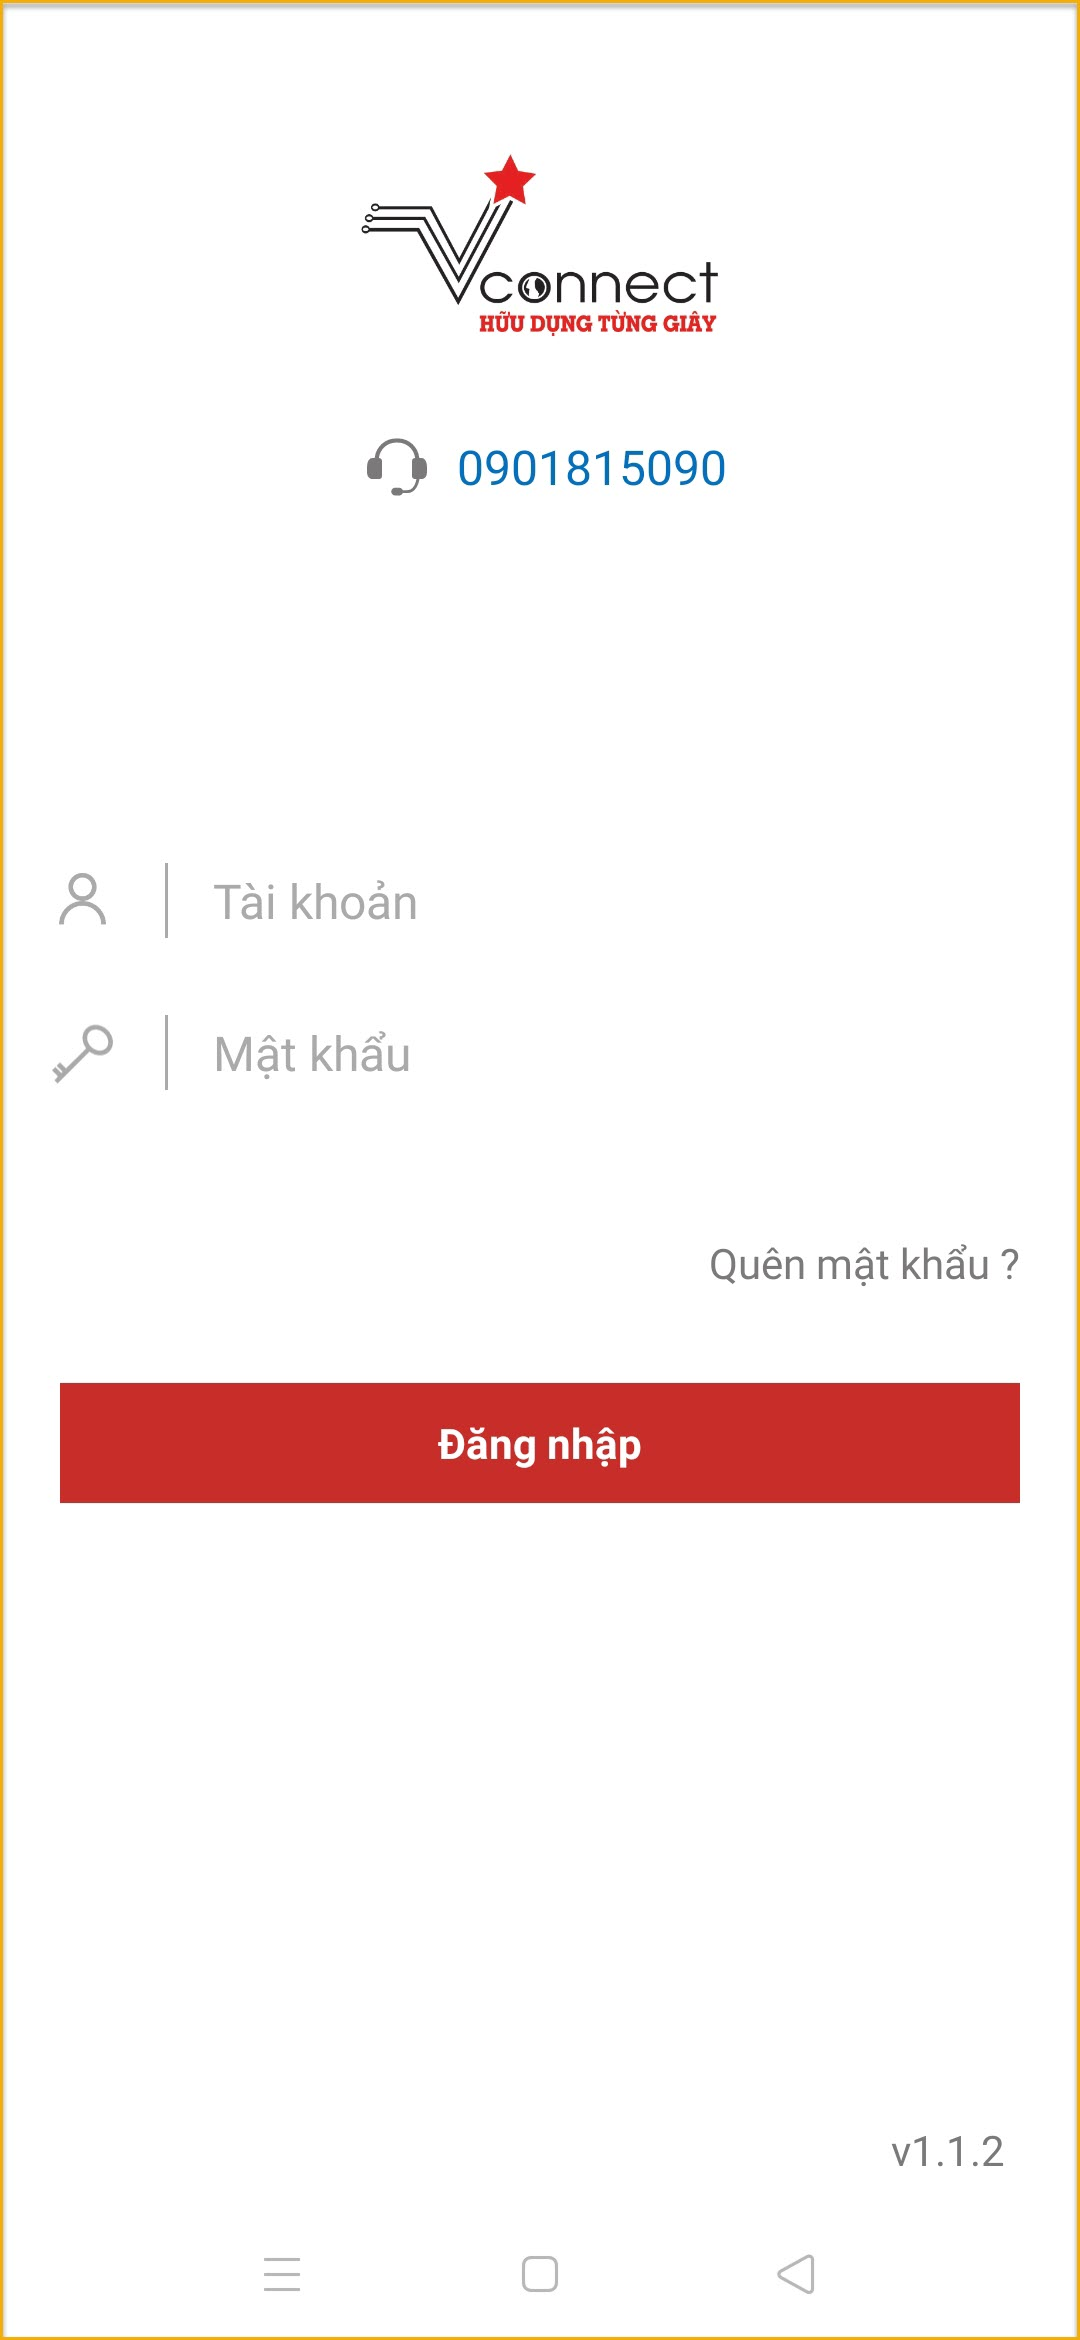
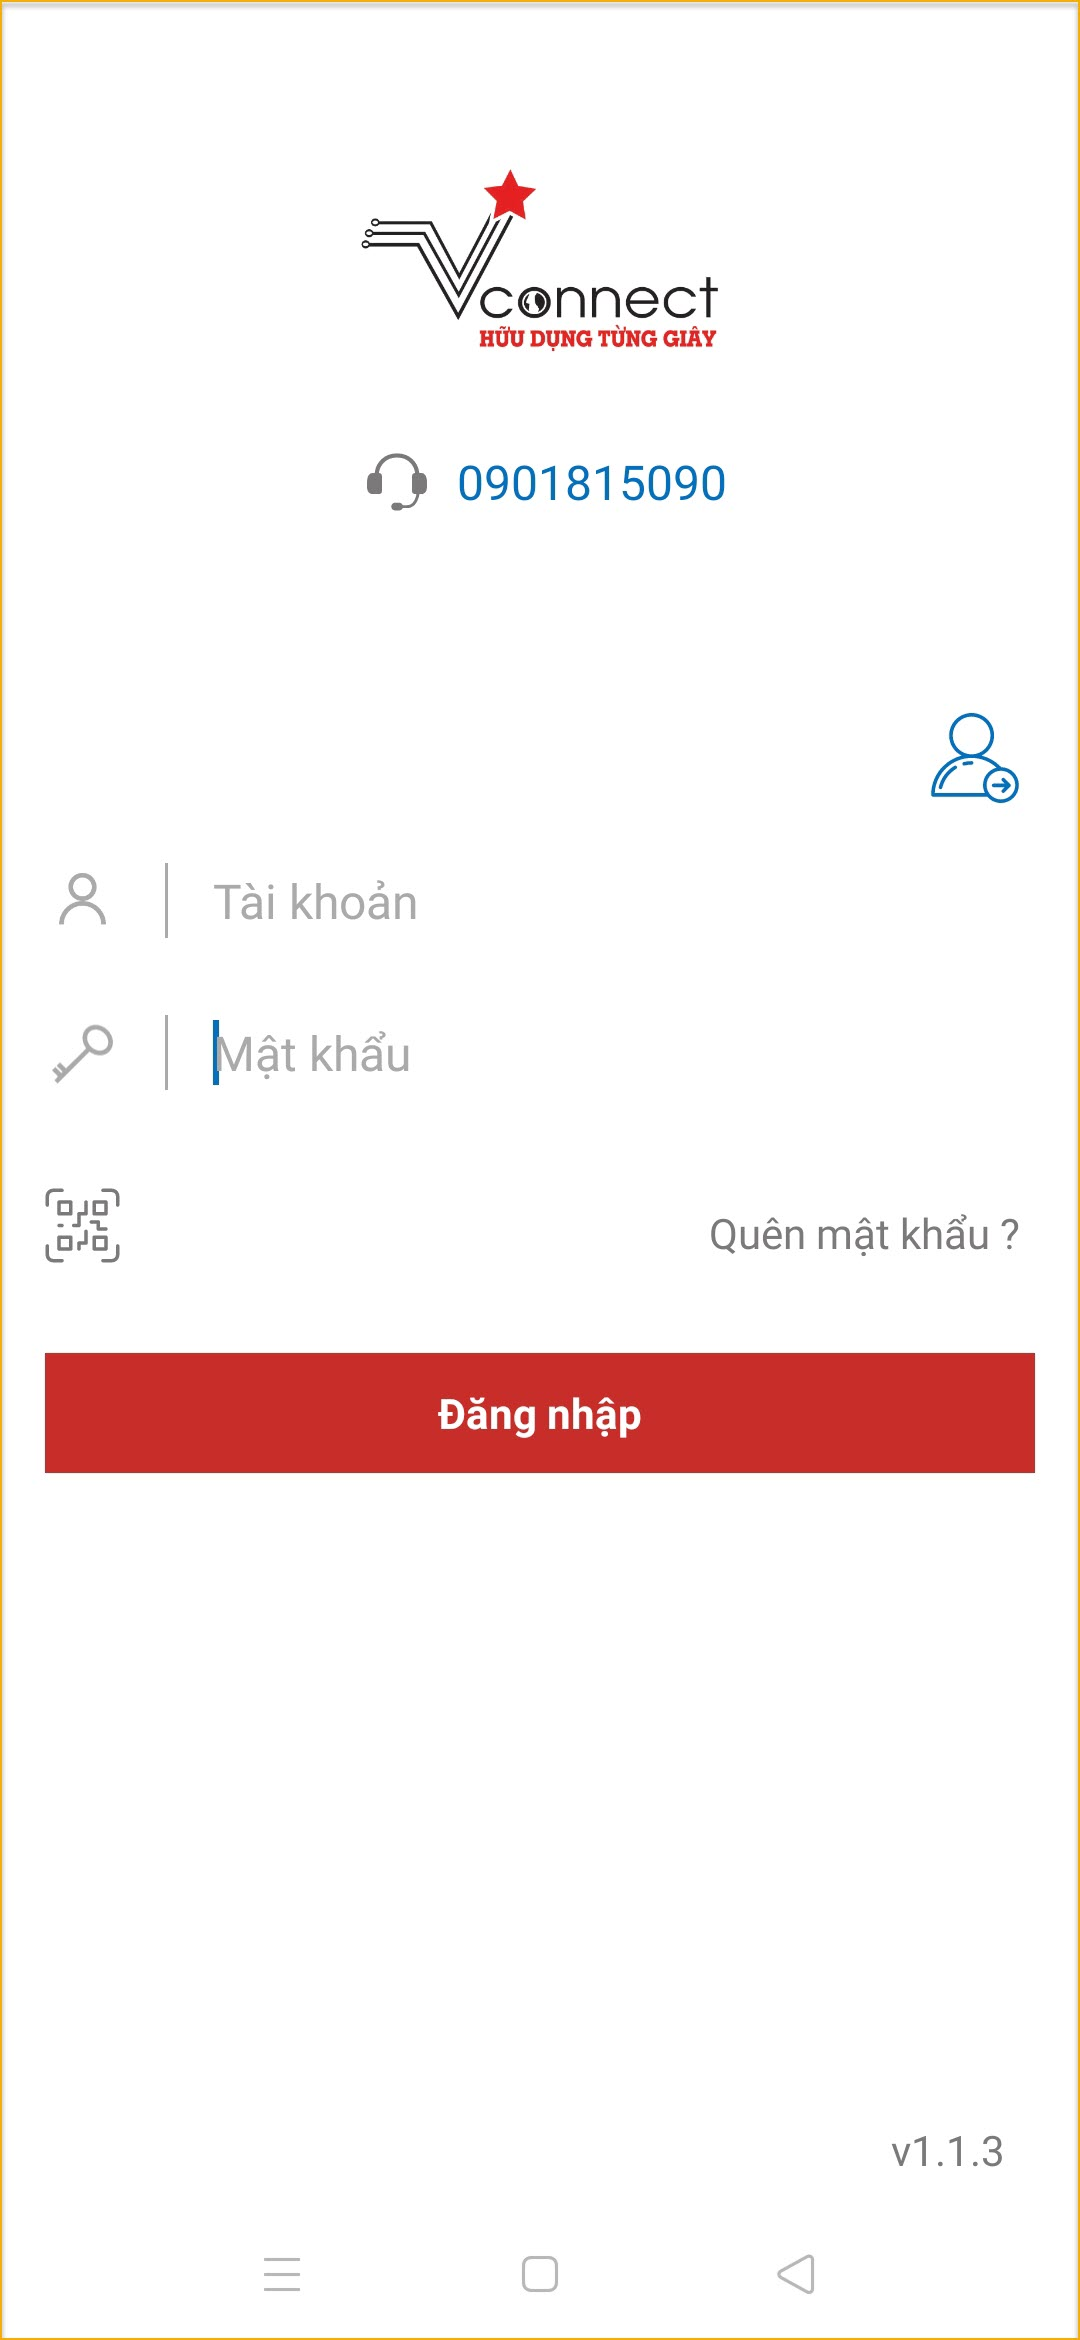
add notifiacations

diff --git a/docs/assets/css/more.css b/docs/assets/css/more.css
@@ -25,6 +25,15 @@
 
 }
 
+.icon-left3 img {
+    margin-left:6px;
+    margin-right: 4px;
+    margin-bottom: -2px;
+    width: 30px;
+    height: 30px;
+
+}
+
 
 
 

diff --git a/modules/web-interface/notification/warning/README_vi.md b/modules/web-interface/notification/warning/README_vi.md
@@ -1,0 +1,75 @@
+
+#  Quy tắc cảnh báo
+
+Khi vi phạm quy tắc cảnh báo sẽ nổ ra cảnh báo cho người dùng.
+
+Đầu tiên, bạn nhấn vào **Quản lý > Cảnh báo - Lập lịch > Quy tắc cảnh báo**
+
+<span style="display:block;text-align:center">![Interface manage acount](/docs/assets/images/web-interface/notification/warning.jpg) 
+
+### Tìm kiếm 
+
+- Bước 1 : Tìm kiếm theo các tiêu chí sau :
+    * **Tên thiết bị** : Nhập 1 hoặc nhiều ký tự có trong tên thiết bị mà bạn muốn tìm kiếm.
+    * **Loại cảnh báo** : Chọn 1 trong các loại cảnh báo có trong ô đó để tìm kiếm dễ hơn.
+     <span style="display:block;text-align:center">![Interface manage acount](/docs/assets/images/web-interface/notification/search-warning.jpg)
+
+- Bước 2 : Nhấn **Tìm kiếm**.
+
+    **Đặt lại** : Đặt lại về chế độ mặc định ban đầu.
+
+### Tạo mới cảnh báo
+
+- Bước 1 : Nhấn vào **Tạo mới cảnh báo**.
+- Bước 2 : Xuất hiện hộp thoại như màn hình dưới đây :
+
+    <span style="display:block;text-align:center">![Interface manage acount](/docs/assets/images/web-interface/notification/add-warning-1.jpg)
+
+    <span style="display:block;text-align:center">![Interface manage acount](/docs/assets/images/web-interface/notification/add-warning.jpg)
+
+  <span style="display:block;text-align:center">![Interface manage acount](/docs/assets/images/web-interface/notification/add-warning-2.jpg)
+* ***Cơ bản*** 
+    * **Tên cảnh báo** : Nhập tên cảnh báo.
+    * **Mô tả** : cảnh báo này cụ thể như nào,...
+    * *Kích hoạt* : Bật tắt cảnh báo.
+* ***Loại cảnh báo*** 
+    * **Loại cảnh báo** : Chọn loại cảnh báo mà bạn cần gửi cảnh báo về.
+    * Cài đặt thông số cho mỗi cảnh báo tương ứng.
+* **Thiết bị** 
+    - **Luôn chọn tất cả thiết bị** : Bật / Tắt áp dụng cảnh báo đã chọncho    tất cả các thiết bị trong tài khoản đó.
+* **Vùng địa lý** 
+Có thể chọn 1 trong 3 lựa chọn sau :
+    - Bỏ qua.
+    - Ngoài vùng
+    - Trong vùng
+
+* Cài đặt thông báo 
+
+    - **Sms thông báo** : Nhập  số điện thoại vào ô đó để thêm số điện thoại.
+    Bạn có thể thêm 1 hoặc nhiều số điện thoại để gửi cảnh báo về.
+    - **Email thông báo** : Nhập email vào ô đó để thêm email.
+    Bạn có thể thêm 1 hoặc nhiều email để gửi cảnh báo về.
+
+   
+    - Bật / tắt **Nhận thông báo**.
+        - **Luôn hoạt động**
+        - **Hoạt động trong khoảng** :  Cài đặt ngày nhận, thời gian  nhận thông báo . 
+    - Tick vào ô <span class="icon-left svg-filter-tick">![Ok](/docs/assets/images/web-interface/icon/SVG/check-square.svg) để cài đặt bật / tắt **Nhận thông báo về mobile app. Thông báo khẩn cấp**
+
+Sau khi cài đặt xong. Bấm **Thêm** để hoàn thành thao tác.
+
+### Sửa cảnh báo
+
+* Bước 1 : Click vào  <span class="icon-left svg-filter-search">![Ok](/docs/assets/images/web-interface/icon/SVG/edit.svg) để sửa cảnh báo. 
+* Bước 2 : Xuất hiện hộp thoại như sau :
+
+<span style="display:block;text-align:center">![Interface manage acount](/docs/assets/images/web-interface/notification/eidit-warning.jpg)
+
+Sau khi sửa xong. Nhấn **Lưu thay đổi** để hoàn thành thao tác.
+
+### Xóa cảnh báo
+
+### Mở / Khóa cảnh báo
+
+<span style="display:block;text-align:center">![Interface manage acount](/docs/assets/images/web-interface/notification/lock-warning.jpg)
+

diff --git a/modules/app-vcn/login/README_vi.md b/modules/app-vcn/login/README_vi.md
@@ -11,10 +11,33 @@ Sau đó đăng nhập.
 
 <span style="display:block;text-align:center">![Interface Web](/docs/assets/images/web-interface/app-vcn/login.jpg) 
 
+### Cách 1 : Đăng nhập thủ công
 
 - **Tài khoản**: Vui lòng nhập tên tài khoản đã đăng ký.
 - **Mật khẩu**: Hãy tạo mật khẩu mạnh và viết liền không dấu.
 
 Sau đó click vào **Đăng nhập** để hoàn thành thao tác. 
 
+### Cách 2 : Quét mã QR
 
+* Đầu tiên, người dùng click vào <span class="icon-left svg-filter-info">![Ok](/docs/assets/images/web-interface/icon/SVG/icons8-qr-code.svg) để quét mã vạch.
+* Chọn **CHO PHÉP** để **Cho phép Giám sát VCN chụp ảnh và quay video**.
+
+* Sau đó, đưa mã vạch / mã QR trên thiết bị lên, hướng camera vào vị trí mã cần quét để đăng nhập.
+
+<span style="display:block;text-align:center">![Interface Web](/docs/assets/images/web-interface/app-vcn/qr-code.jpg) 
+
+Sau khi quét thành công sẽ đăng nhập vào tài khoản đã đăng ký theo mã thiết bị đó.
+
+
+
+### Cách 3 : Nhớ tài khoản đăng nhập
+
+<span class="icon-left3">![Ok](/docs/assets/images/web-interface/app-vcn/move-user-login.jpg) Lưu các tài khoản người dùng đã từng đăng nhập thành công.
+ * Sau khi đăng nhập thủ công lần 1 thành công thì click vào <span class="icon-left3">![Ok](/docs/assets/images/web-interface/app-vcn/move-user-login.jpg)  để chọn tài khoản muốn đăng nhập nhanh vào app.
+
+<span style="display:block;text-align:center">![Interface Web](/docs/assets/images/web-interface/app-vcn/qr-code-done.jpg) 
+
+> Sau khi đăng nhập thành công lần đầu tiên, để sử dụng được những tính năng liên quan đến vị trí, bạn hãy thực hiện như hình dưới đây :
+Chọn **CHỈ CHO PHÉP KHI DÙNG ỨNG DỤNG** để **Cho phép Giám sát xe VCN truy cập vào vị trí của thiết bị**
+<span style="display:block;text-align:center">![Interface Web](/docs/assets/images/web-interface/app-vcn/location-2-login.jpg)

diff --git a/modules/web-interface/tracking/manage-region/README_vi.md b/modules/web-interface/tracking/manage-region/README_vi.md
@@ -6,13 +6,13 @@
 
 ### Tìm kiếm 
 * Tìm kiếm theo tên vùng.
+
 ### Tạo mới vùng 
+
+<span style="display:block;text-align:center">![Interface Web](/docs/assets/images/web-interface/map/add-region-3.png)
+
 * Bước 1 :  Click vào **Tạo mới Quản lý vùng** 
-* Bước 2 : Hộp thoại Thêm vùng xuất hiện như hình dưới đây :
-
-
-    <span style="display:block;text-align:center">![Interface Web](/docs/assets/images/web-interface/map/add-region-3.png)
-
+* Bước 2 : Hộp thoại Thêm vùng xuất hiện như hình trên :
 
     <span class="icon-left svg-filter-info">![Ok](/docs/assets/images/web-interface/icon/SVG/polygon.svg)  để tạo vùng hình đa giác : Chạm vào màn  hình để chọn các điểm tạo nên vùng. Ít nhất là 3 điểm.
 
@@ -28,7 +28,7 @@
 
     **Màu, độ mờ** : Chọn màu , đồ mờ tùy chọn, muốn hiển thị trên bản đồ
 
-    Click **Thêm** để hoàn thành thao tác.
+Click **Thêm** để hoàn thành thao tác.
 
 ### Sửa vùng 
 
@@ -38,8 +38,11 @@
      <span style="display:block;text-align:center">![Interface Web](/docs/assets/images/web-interface/map/edit-region-3.png)
 
     **Tên** : Sửa tên vùng đã tạo..
+
     **Nhóm** : Chọn lại nhóm vùng 
+
     **Mô tả** : Mô tả vùng đó có gì đặc biệt,...
+    
     **Màu, độ mờ** : Chọn màu , đồ mờ tùy chọn, muốn hiển thị trên bản đồ.
  
 Click **Lưu thay đổi** để hoàn thành thao tác.

diff --git a/docs/_sidebar_vi.md b/docs/_sidebar_vi.md
@@ -26,7 +26,9 @@
 
 - [Quản lý vùng](vi/modules/web-interface/tracking/manage-region/)
   - **Thông báo** 
-    - [Thông báo](vi/modules/web-interface/notification/)
+    - [Quản lý thông báo](vi/modules/web-interface/notification/)
+    - [Quản lý cảnh báo](vi/modules/web-interface/notification/warning/)
+    - [Lập lịch báo cáo](vi/modules/web-interface/notification/Schedule-a-report/)
 
   - **Báo cáo**
 

diff --git a/modules/web-interface/notification/Schedule-a-report/README_vi.md b/modules/web-interface/notification/Schedule-a-report/README_vi.md
@@ -1,0 +1,11 @@
+
+#  Lập lịch báo cáo
+
+
+Đầu tiên, bạn nhấn vào **Quản lý > Cảnh báo - Lập lịch > Quy tắc cảnh báo**
+
+<span style="display:block;text-align:center">![Interface manage acount](/docs/assets/images/web-interface/notification/Schedule-a-report.jpg) 
+
+### Tìm kiếm 
+
+

diff --git a/modules/web-interface/notification/Schedule-a-report/README.md b/modules/web-interface/notification/Schedule-a-report/README.md
@@ -1,0 +1,1 @@
+# Scdedule-a-report

diff --git a/modules/web-interface/notification/warning/README.md b/modules/web-interface/notification/warning/README.md
@@ -1,0 +1,1 @@
+# Warning
